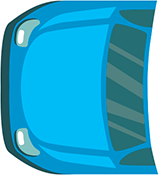
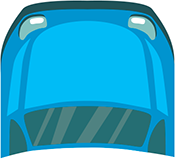
cambiado carro a vertical

diff --git a/resources/views/budgets/create-step-four.blade.php b/resources/views/budgets/create-step-four.blade.php
@@ -134,60 +134,75 @@
                 <div class="row mt-3">
 
                   <div class="col-md-12">
-                    <div class="col" style="float: left;width: 15%">
+                    <div class="col" style="float: left;width: 21%">
                     </div>
-                    <div class="col hover-custom add-item-budget" numrowpart="8" part="Aleta del der" abpart="ADD" style="float: left;width: 19%">
+
+                    <div class="col hover-custom add-item-budget" numrowpart="3" part="Aleta del izq" abpart="ADI" style="float: left;width: 20%">
+                      <img src="{{ asset('images/car_graph/bot 1.png') }}" alt="">
+                    </div>
+                    <div class="col hover-custom add-item-budget" part="Capot" numrowpart="0" abpart="CAPOT" style="float: left;width: 19%">
+                      <img src="{{ asset('images/car_graph/mid 1.png') }}" alt="">
+                    </div>
+                    <div class="col hover-custom add-item-budget" numrowpart="8" part="Aleta del der" abpart="ADD" style="float: left;width: 20%">
                       <img src="{{ asset('images/car_graph/top 1.png') }}" alt="">
-                    </div>
-                    <div class="col hover-custom add-item-budget" numrowpart="9" part="Puerta del der" abpart="PDD" style="float: left;width: 17%">
-                      <img src="{{ asset('images/car_graph/top 2.png') }}" alt="">
-                    </div>
-                    <div class="col hover-custom add-item-budget" numrowpart="10" part="Puerta tra der" abpart="PTD" style="float: left;width: 14%">
-                      <img src="{{ asset('images/car_graph/top 3.png') }}" alt="">
-                    </div>
-                    <div class="col hover-custom add-item-budget" numrowpart="12" part="Aleta tra der" abpart="ATD" style="float: left;width: 19%">
-                      <img src="{{ asset('images/car_graph/top 4.png') }}" alt="">
                     </div>
                   </div>
 
                   <div class="col-md-12">
                     <div class="col" style="float: left;width: 21%">
                     </div>
-                    <!-- <div class="col hover-custom" style="float: left;width: 8%">
-                      <img src="{{ asset('images/car_graph/adelante.png') }}" alt="">
-                    </div> -->
-                    <div class="col hover-custom add-item-budget" part="Capot" numrowpart="0" abpart="CAPOT" style="float: left;width: 19%">
-                      <img src="{{ asset('images/car_graph/mid 1.png') }}" alt="">
+                    <div class="col hover-custom add-item-budget" numrowpart="4" part="Puerta del izq" abpart="PDI" style="float: left;width: 20%">
+                      <img src="{{ asset('images/car_graph/bot 2.png') }}" alt="">
                     </div>
-                    <div class="col" style="float: left;width: 20%">
-                      <img class="hover-custom add-item-budget" part="Montante derecho" numrowpart="11" abpart="MD" src="{{ asset('images/car_graph/mid 4.png') }}" alt="">
-                      <img class="hover-custom add-item-budget" part="Techo" numrowpart="1" abpart="TECHO" src="{{ asset('images/car_graph/mid 2.png') }}" alt="">
+                    <div class="col" style="float: left;width: 3%">
                       <img class="hover-custom add-item-budget" part="Montante izquierdo" numrowpart="6" abpart="MI" src="{{ asset('images/car_graph/mid 5.png') }}" alt="">
                     </div>
-                    <div class="col hover-custom add-item-budget" part="Maletero" numrowpart="2" abpart="MALETERO" style="float: left;width: 16%">
-                      <img src="{{ asset('images/car_graph/mid 3.png') }}" alt="">
+                    <div class="col" style="float: left;width: 11%">
+                      <img class="hover-custom add-item-budget" part="Techo" numrowpart="1" abpart="TECHO" src="{{ asset('images/car_graph/mid 2.png') }}" alt="">
                     </div>
-                    <!-- <div class="col hover-custom" style="float: left;width: 9%">
-                      <img src="{{ asset('images/car_graph/atras.png') }}" alt="">
-                    </div> -->
+                    <div class="col" style="float: left;width: 5%">
+                      <img class="hover-custom add-item-budget" part="Montante derecho" numrowpart="11" abpart="MD" src="{{ asset('images/car_graph/mid 4.png') }}" alt="">
+                    </div>
+                    <div class="col hover-custom add-item-budget" numrowpart="9" part="Puerta del der" abpart="PDD" style="float: left;width: 20%">
+                      <img src="{{ asset('images/car_graph/top 2.png') }}" alt="">
+                    </div>
+                  </div>
+
+                  <div class="col-md-12" style="height: 120px;">
+                    <div class="col" style="float: left;width: 21%">
+                    </div>
+                    <div class="col hover-custom add-item-budget" numrowpart="5" part="Puerta tra izq" abpart="PTI" style="float: left;width: 20%">
+                      <img src="{{ asset('images/car_graph/bot 3.png') }}" alt="">
+                    </div>
+
+                    <div class="col" style="float: left;width: 3%">
+                      <img class="hover-custom add-item-budget" part="Montante izquierdo" numrowpart="6" abpart="MI" src="{{ asset('images/car_graph/mid 5.png') }}" alt="">
+                    </div>
+                    <div class="col" style="float: left;width: 11%">
+                      <img class="hover-custom add-item-budget" part="Techo" numrowpart="1" abpart="TECHO" src="{{ asset('images/car_graph/mid 2.png') }}" alt="">
+                    </div>
+                    <div class="col" style="float: left;width: 5%">
+                      <img class="hover-custom add-item-budget" part="Montante derecho" numrowpart="11" abpart="MD" src="{{ asset('images/car_graph/mid 4.png') }}" alt="">
+                    </div>
+
+                    <div class="col hover-custom add-item-budget" numrowpart="10" part="Puerta tra der" abpart="PTD" style="float: left;width: 20%">
+                      <img src="{{ asset('images/car_graph/top 3.png') }}" alt="">
+                    </div>
                   </div>
 
                   <div class="col-md-12">
-                    <div class="col" style="float: left;width: 15%">
+                    <div class="col" style="float: left;width: 21%">
                     </div>
-                    <div class="col hover-custom add-item-budget" numrowpart="3" part="Aleta del izq" abpart="ADI" style="float: left;width: 19%">
-                      <img src="{{ asset('images/car_graph/bot 1.png') }}" alt="">
-                    </div>
-                    <div class="col hover-custom add-item-budget" numrowpart="4" part="Puerta del izq" abpart="PDI" style="float: left;width: 17%">
-                      <img src="{{ asset('images/car_graph/bot 2.png') }}" alt="">
-                    </div>
-                    <div class="col hover-custom add-item-budget" numrowpart="5" part="Puerta tra izq" abpart="PTI" style="float: left;width: 14%">
-                      <img src="{{ asset('images/car_graph/bot 3.png') }}" alt="">
-                    </div>
-                    <div class="col hover-custom add-item-budget" numrowpart="7" part="Aleta del izq" abpart="ATI" style="float: left;width: 19%">
+                    <div class="col hover-custom add-item-budget" numrowpart="7" part="Aleta del izq" abpart="ATI" style="float: left;width: 20%">
                       <img src="{{ asset('images/car_graph/bot 4.png') }}" alt="">
                     </div>
-                  </div>  
+                    <div class="col hover-custom add-item-budget" part="Maletero" numrowpart="2" abpart="MALETERO" style="float: left;width: 20%">
+                      <img src="{{ asset('images/car_graph/mid 3.png') }}" alt="">
+                    </div>
+                    <div class="col hover-custom add-item-budget" numrowpart="12" part="Aleta tra der" abpart="ATD" style="float: left;width: 20%">
+                      <img src="{{ asset('images/car_graph/top 4.png') }}" alt="">
+                    </div>
+                  </div>
                 </div>
 
                 <div class="row">
